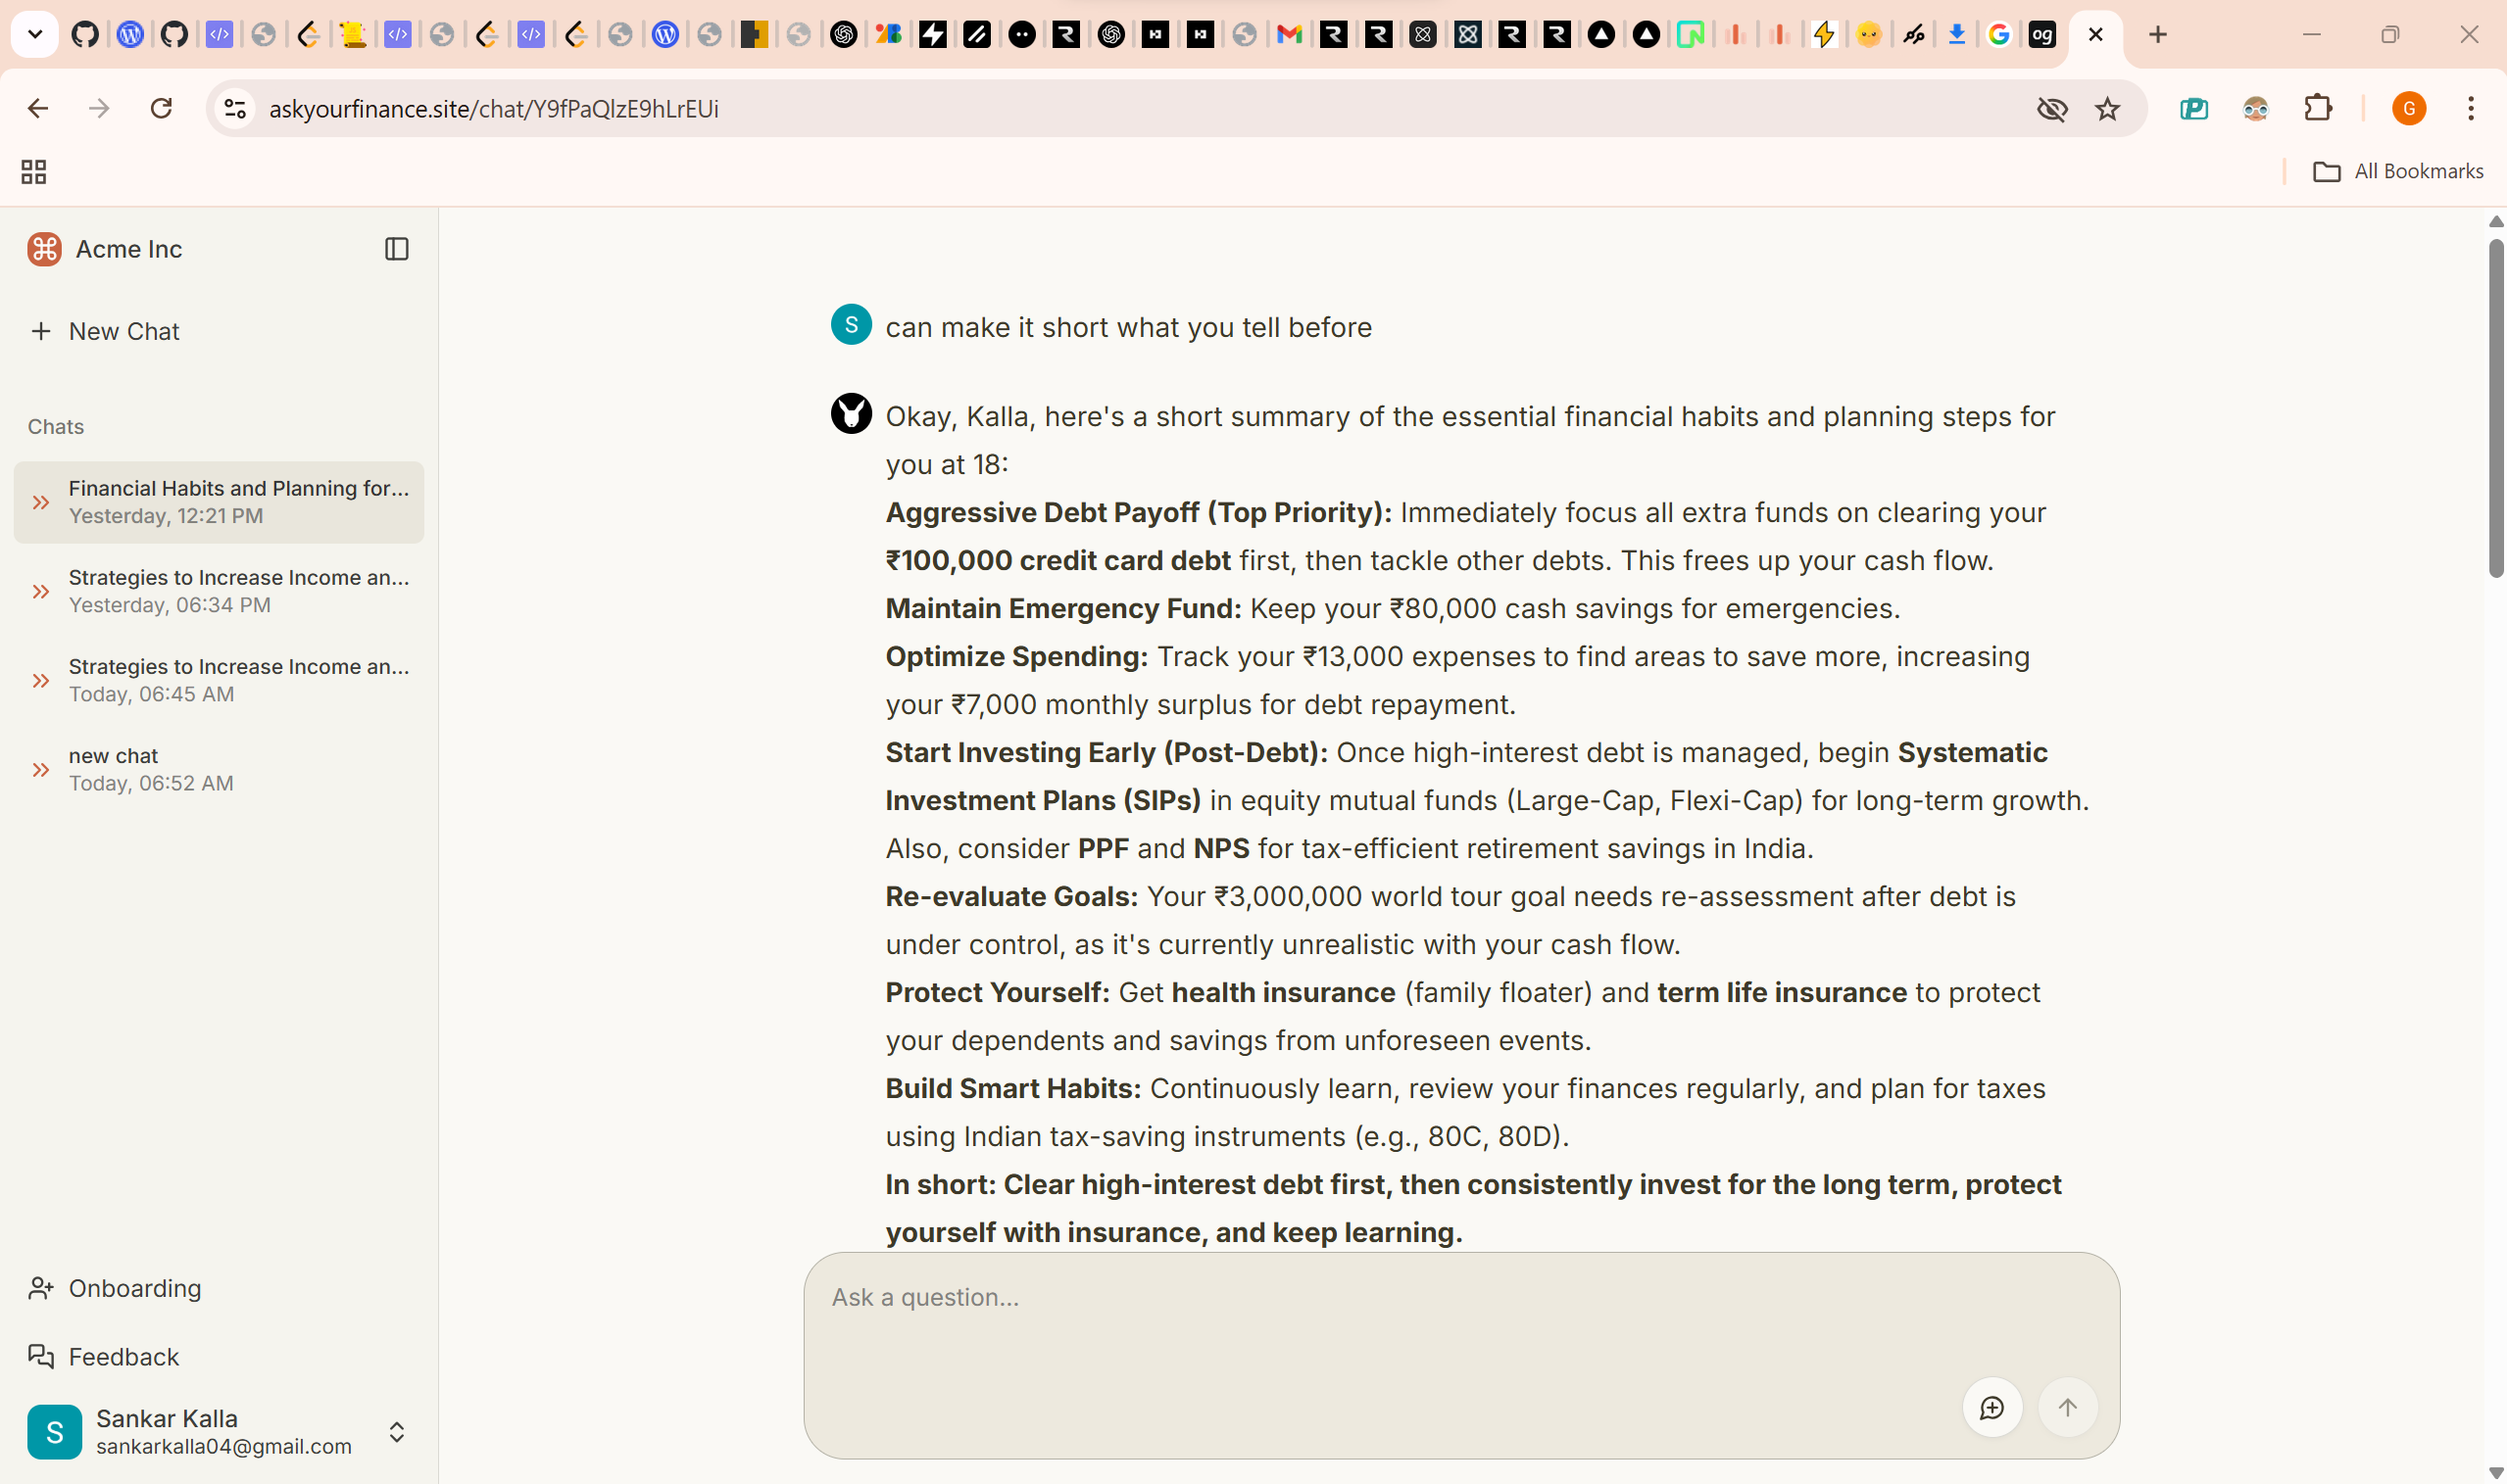
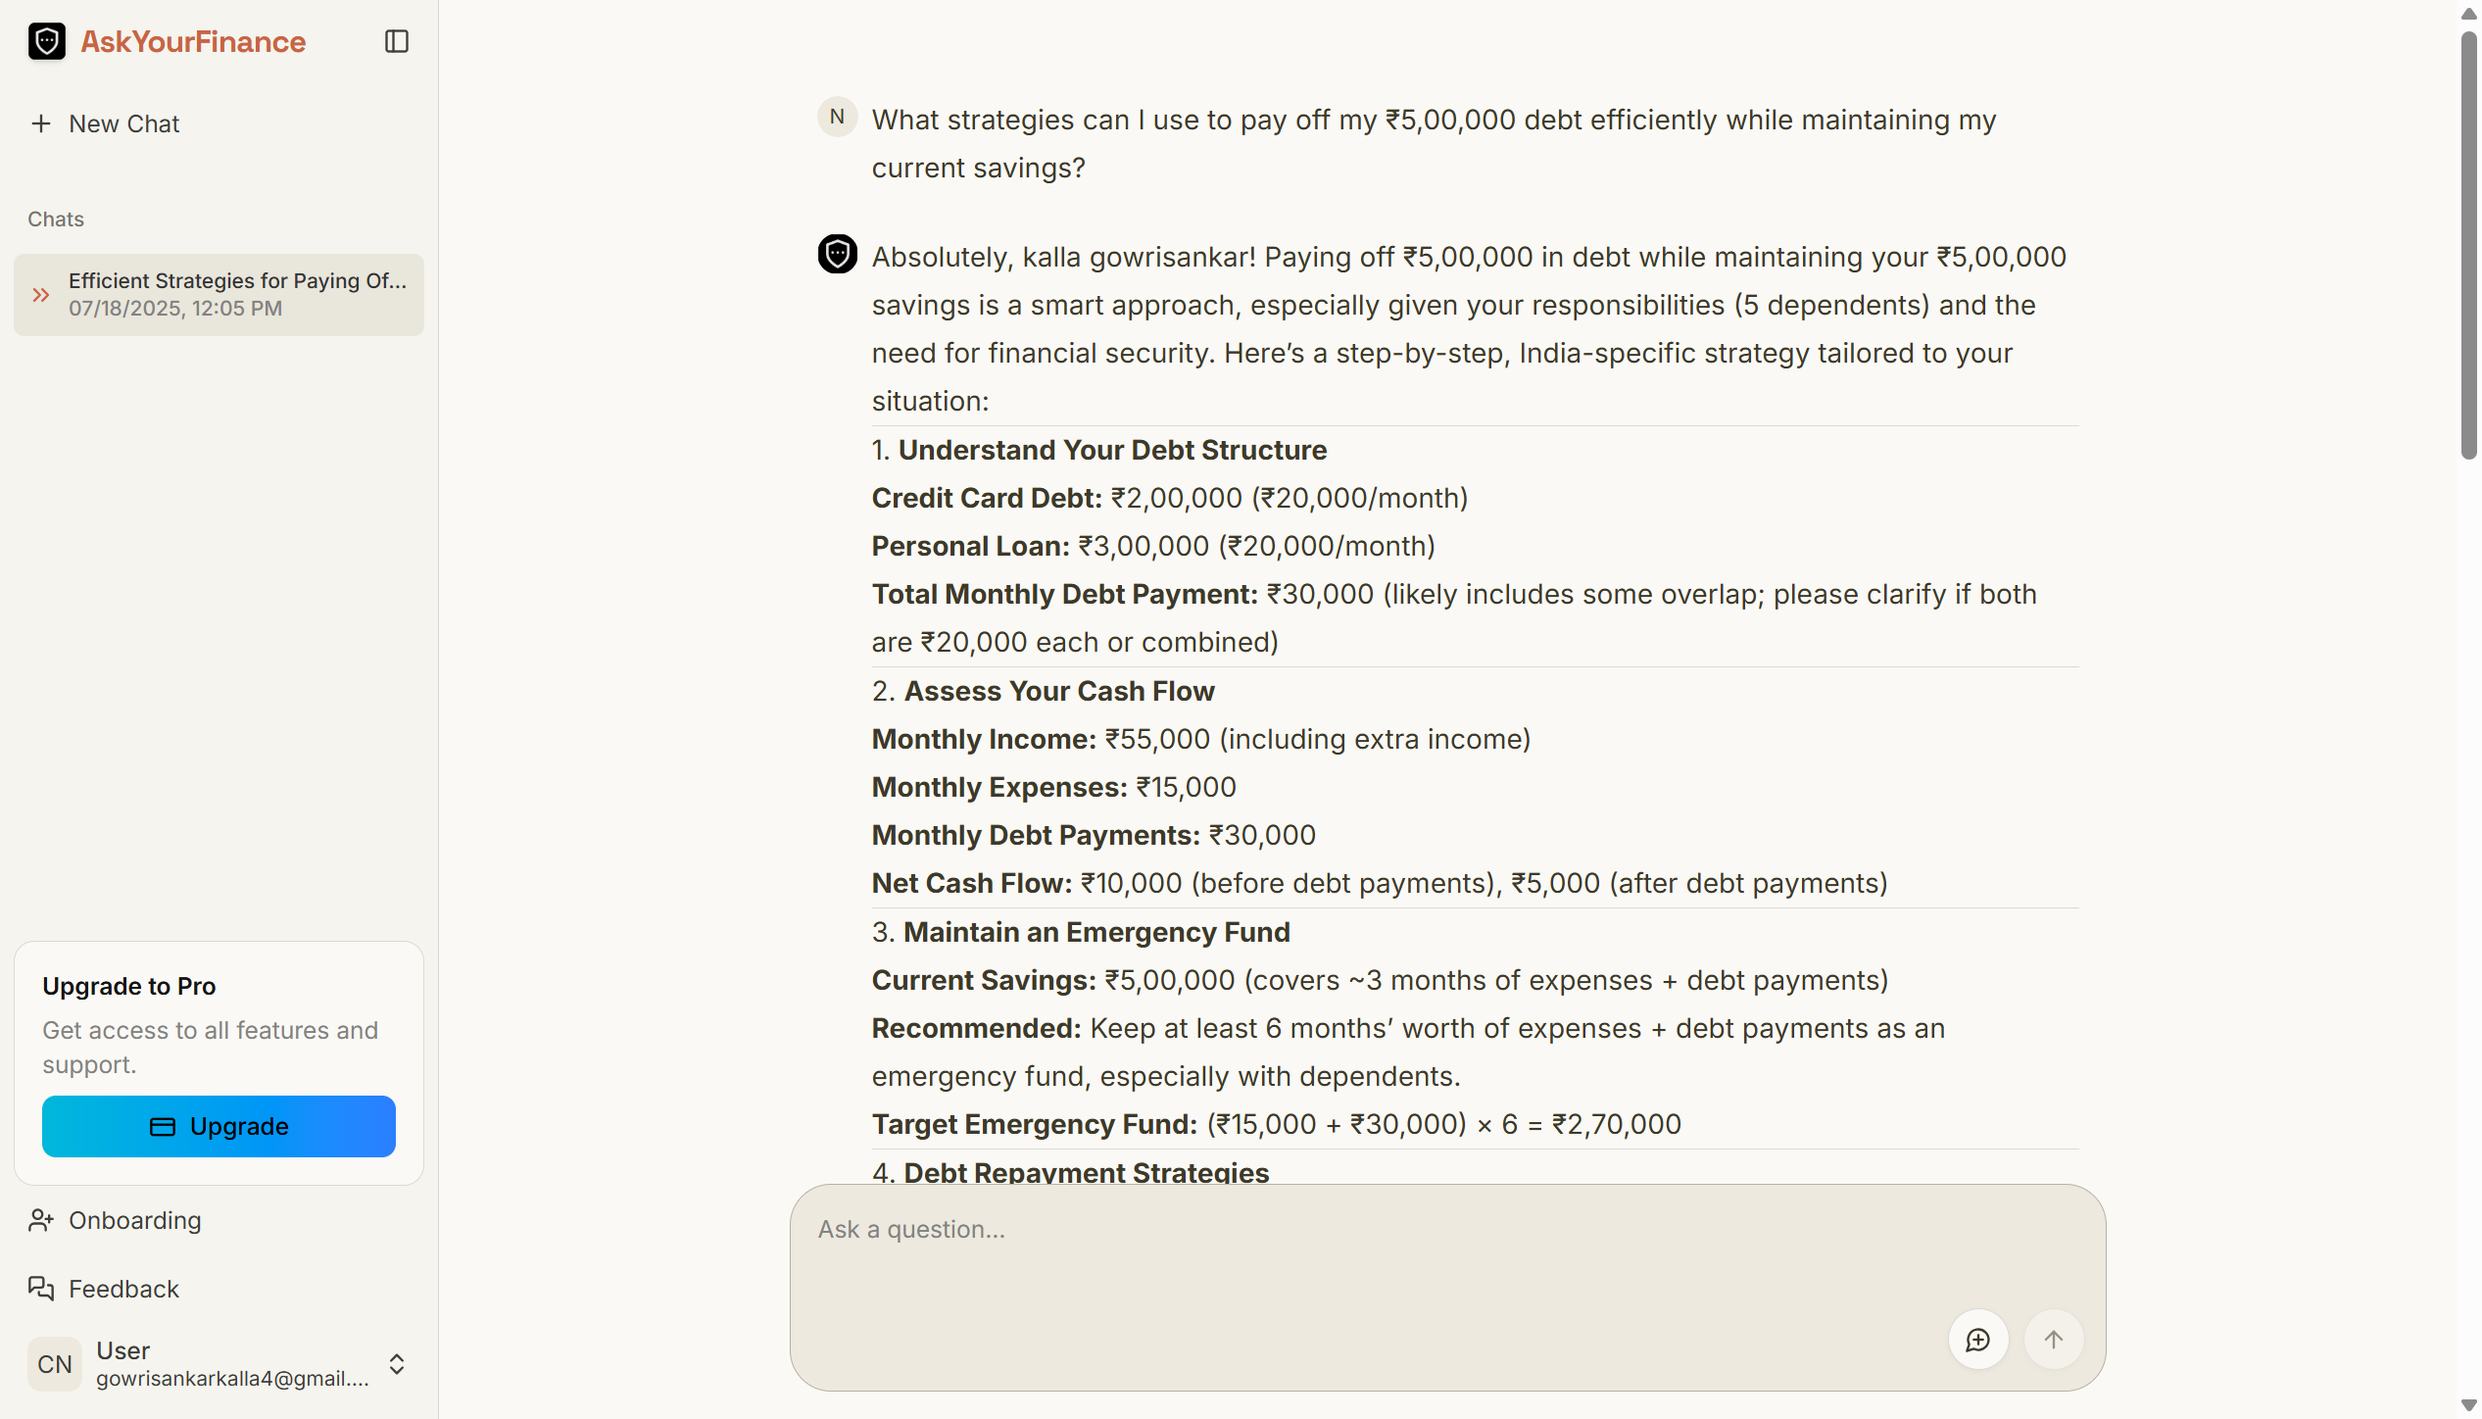
addedd light-and-dark mode heror coursel

diff --git a/src/modules/landing-page/ui/components/hero.tsx b/src/modules/landing-page/ui/components/hero.tsx
@@ -1,14 +1,17 @@
+"use client";
 import { Badge } from "@/components/ui/badge";
 import { Button } from "@/components/ui/button";
 import { ArrowUpRight } from "lucide-react";
+import { useTheme } from "next-themes";
 import Image from "next/image";
 import Link from "next/link";
 import React from "react";
 
 const Hero = () => {
+  const { theme, setTheme } = useTheme();
   return (
     <div className="min-h-screen w-full flex flex-col gap-10 items-center justify-center px-6 py-16">
-      <div className="text-center max-w-2xl">
+      <div className="text-center max-w-2xl md:max-w-3xl">
         <Badge className="bg-gradient-to-br via-70% from-primary via-muted/30 to-primary rounded-full py-1 border-none">
           Just released v1.0.0
         </Badge>
@@ -31,9 +34,9 @@ const Hero = () => {
           No credit card required. Cancel anytime.
         </p>
       </div>
-      <div className="w-full relative max-w-screen-xl mx-auto aspect-video bg-accent rounded-xl">
+      <div className="w-full relative max-w-screen-xl mx-auto aspect-video bg-accent rounded-xl border border-muted/20 overflow-hidden">
         <Image
-          src={"/light-theme.png"}
+          src={theme === "dark" ? "/dark-theme.png" : "/light-theme.png"}
           fill
           alt="logo"
           loading="lazy"
